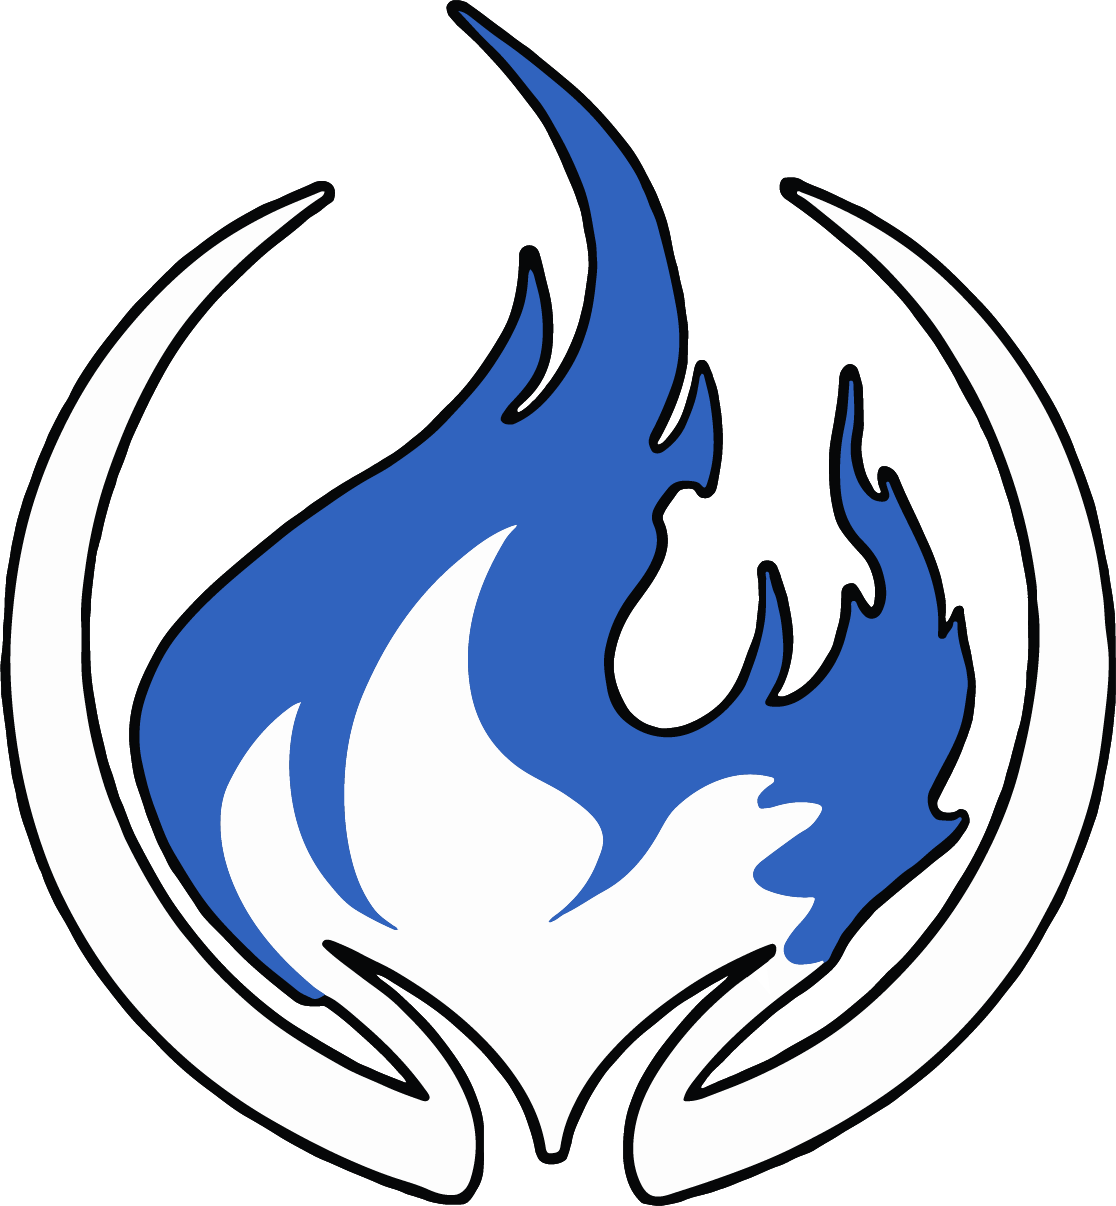
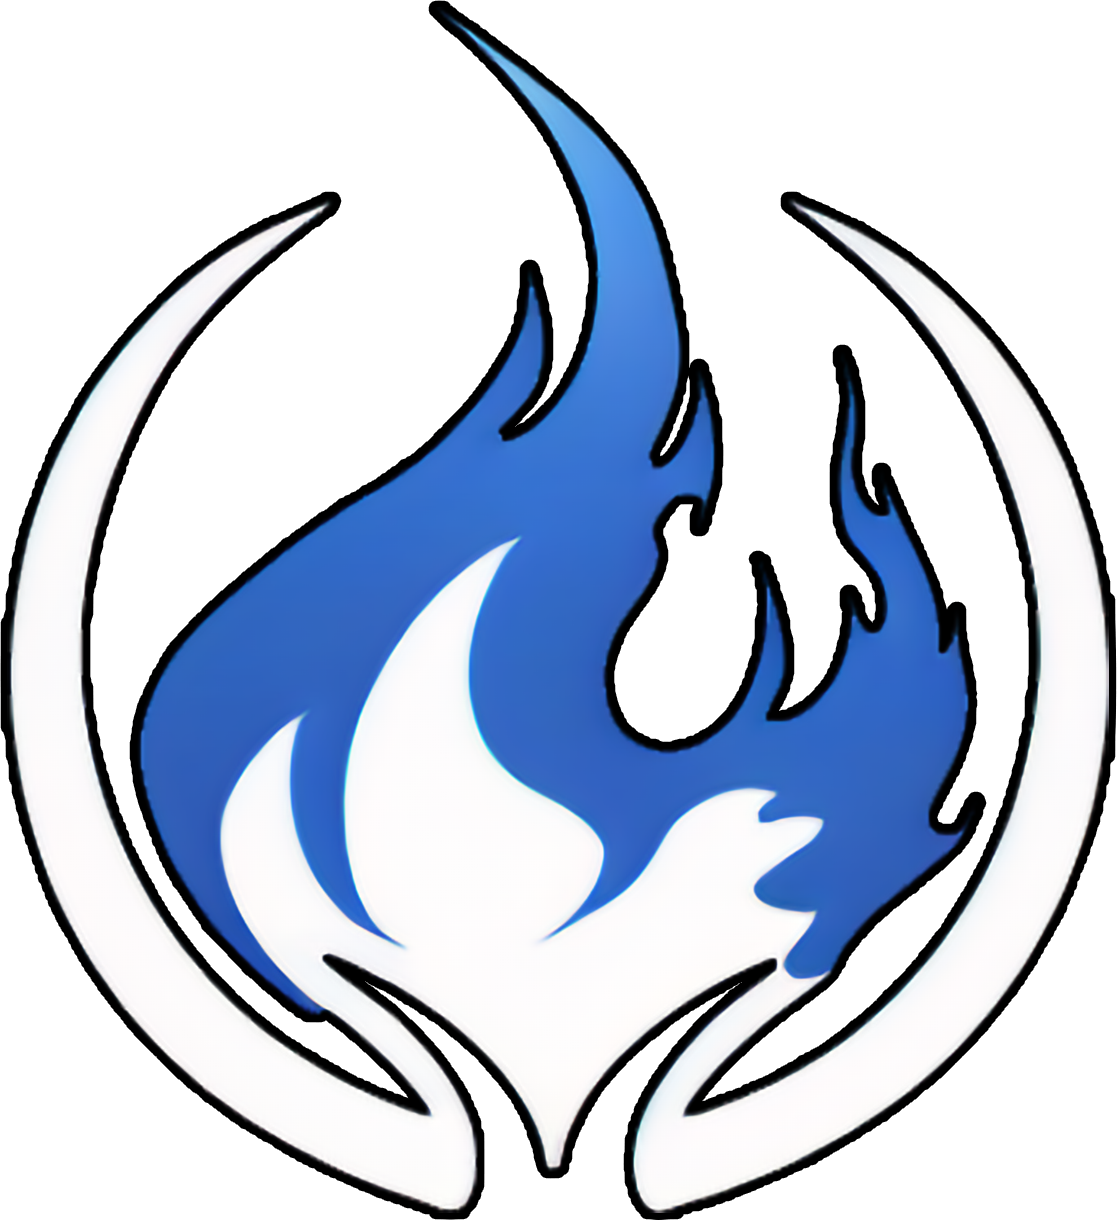
build: 패키지 설정 정리 packages package.json

diff --git a/packages/create-frontron/template-next-ts/app/globals.css b/packages/create-frontron/template-next-ts/app/globals.css
@@ -1,71 +1,64 @@
 @tailwind base;
 @tailwind components;
 @tailwind utilities;
- 
+
 @layer base {
   :root {
     --background: 0 0% 100%;
     --foreground: 222.2 84% 4.9%;
-
     --card: 0 0% 100%;
     --card-foreground: 222.2 84% 4.9%;
- 
     --popover: 0 0% 100%;
     --popover-foreground: 222.2 84% 4.9%;
- 
     --primary: 222.2 47.4% 11.2%;
     --primary-foreground: 210 40% 98%;
- 
     --secondary: 210 40% 96.1%;
     --secondary-foreground: 222.2 47.4% 11.2%;
- 
     --muted: 210 40% 96.1%;
     --muted-foreground: 215.4 16.3% 46.9%;
- 
     --accent: 210 40% 96.1%;
     --accent-foreground: 222.2 47.4% 11.2%;
- 
     --destructive: 0 84.2% 60.2%;
     --destructive-foreground: 210 40% 98%;
-
     --border: 214.3 31.8% 91.4%;
     --input: 214.3 31.8% 91.4%;
     --ring: 222.2 84% 4.9%;
- 
     --radius: 0.5rem;
+    --chart-1: 12 76% 61%;
+    --chart-2: 173 58% 39%;
+    --chart-3: 197 37% 24%;
+    --chart-4: 43 74% 66%;
+    --chart-5: 27 87% 67%;
   }
- 
+
   .dark {
     --background: 222.2 84% 4.9%;
     --foreground: 210 40% 98%;
- 
     --card: 222.2 84% 4.9%;
     --card-foreground: 210 40% 98%;
- 
     --popover: 222.2 84% 4.9%;
     --popover-foreground: 210 40% 98%;
- 
     --primary: 210 40% 98%;
     --primary-foreground: 222.2 47.4% 11.2%;
- 
     --secondary: 217.2 32.6% 17.5%;
     --secondary-foreground: 210 40% 98%;
- 
     --muted: 217.2 32.6% 17.5%;
     --muted-foreground: 215 20.2% 65.1%;
- 
     --accent: 217.2 32.6% 17.5%;
     --accent-foreground: 210 40% 98%;
- 
     --destructive: 0 62.8% 30.6%;
     --destructive-foreground: 210 40% 98%;
- 
     --border: 217.2 32.6% 17.5%;
     --input: 217.2 32.6% 17.5%;
     --ring: 212.7 26.8% 83.9%;
+    --chart-1: 220 70% 50%;
+    --chart-2: 160 60% 45%;
+    --chart-3: 30 80% 55%;
+    --chart-4: 280 65% 60%;
+    --chart-5: 340 75% 55%;
   }
 }
- 
+
 @layer base {
   * {
     @apply border-border;

diff --git a/packages/create-frontron/template-next/app/globals.css b/packages/create-frontron/template-next/app/globals.css
@@ -6,63 +6,56 @@
   :root {
     --background: 0 0% 100%;
     --foreground: 222.2 84% 4.9%;
-
     --card: 0 0% 100%;
     --card-foreground: 222.2 84% 4.9%;
-
     --popover: 0 0% 100%;
     --popover-foreground: 222.2 84% 4.9%;
-
     --primary: 222.2 47.4% 11.2%;
     --primary-foreground: 210 40% 98%;
-
     --secondary: 210 40% 96.1%;
     --secondary-foreground: 222.2 47.4% 11.2%;
-
     --muted: 210 40% 96.1%;
     --muted-foreground: 215.4 16.3% 46.9%;
-
     --accent: 210 40% 96.1%;
     --accent-foreground: 222.2 47.4% 11.2%;
-
     --destructive: 0 84.2% 60.2%;
     --destructive-foreground: 210 40% 98%;
-
     --border: 214.3 31.8% 91.4%;
     --input: 214.3 31.8% 91.4%;
     --ring: 222.2 84% 4.9%;
-
     --radius: 0.5rem;
+    --chart-1: 12 76% 61%;
+    --chart-2: 173 58% 39%;
+    --chart-3: 197 37% 24%;
+    --chart-4: 43 74% 66%;
+    --chart-5: 27 87% 67%;
   }
 
   .dark {
     --background: 222.2 84% 4.9%;
     --foreground: 210 40% 98%;
-
     --card: 222.2 84% 4.9%;
     --card-foreground: 210 40% 98%;
-
     --popover: 222.2 84% 4.9%;
     --popover-foreground: 210 40% 98%;
-
     --primary: 210 40% 98%;
     --primary-foreground: 222.2 47.4% 11.2%;
-
     --secondary: 217.2 32.6% 17.5%;
     --secondary-foreground: 210 40% 98%;
-
     --muted: 217.2 32.6% 17.5%;
     --muted-foreground: 215 20.2% 65.1%;
-
     --accent: 217.2 32.6% 17.5%;
     --accent-foreground: 210 40% 98%;
-
     --destructive: 0 62.8% 30.6%;
     --destructive-foreground: 210 40% 98%;
-
     --border: 217.2 32.6% 17.5%;
     --input: 217.2 32.6% 17.5%;
     --ring: 212.7 26.8% 83.9%;
+    --chart-1: 220 70% 50%;
+    --chart-2: 160 60% 45%;
+    --chart-3: 30 80% 55%;
+    --chart-4: 280 65% 60%;
+    --chart-5: 340 75% 55%;
   }
 }
 

diff --git a/packages/create-frontron/template-next-ts/app/page.tsx b/packages/create-frontron/template-next-ts/app/page.tsx
@@ -38,8 +38,8 @@ export default function Home() {
           priority
         />
         &nbsp;&nbsp;&nbsp;&nbsp;
-        <svg xmlns="http://www.w3.org/2000/svg" width="24" height="24" viewBox="0 0 24 24" fill="none" stroke="currentColor" stroke-width="2" stroke-linecap="round" stroke-linejoin="round"><path d="M5 12h14"/><path d="M12 5v14"/></svg>
-        &nbsp;&nbsp;&nbsp;&nbsp;&nbsp;
+        +
+        &nbsp;&nbsp;&nbsp;&nbsp;
         <Image
           className="relative dark:drop-shadow-[0_0_0.3rem_#ffffff70] dark:invert"
           src="/next.svg"

diff --git a/packages/create-frontron/template-next-ts/tailwind.config.ts b/packages/create-frontron/template-next-ts/tailwind.config.ts
@@ -3,8 +3,10 @@ import type { Config } from "tailwindcss"
 const config = {
   darkMode: ["class"],
   content: [
-    './app/**/*.{ts,tsx}',
+    './pages/**/*.{ts,tsx}',
     './components/**/*.{ts,tsx}',
+    './app/**/*.{ts,tsx}',
+    './src/**/*.{ts,tsx}',
 	],
   prefix: "",
   theme: {

diff --git a/packages/create-frontron/template-next/app/page.js b/packages/create-frontron/template-next/app/page.js
@@ -38,8 +38,8 @@ export default function Home() {
           priority
         />
         &nbsp;&nbsp;&nbsp;&nbsp;
-        <svg xmlns="http://www.w3.org/2000/svg" width="24" height="24" viewBox="0 0 24 24" fill="none" stroke="currentColor" stroke-width="2" stroke-linecap="round" stroke-linejoin="round"><path d="M5 12h14"/><path d="M12 5v14"/></svg>
-        &nbsp;&nbsp;&nbsp;&nbsp;&nbsp;
+        +
+        &nbsp;&nbsp;&nbsp;&nbsp;
         <Image
           className="relative dark:drop-shadow-[0_0_0.3rem_#ffffff70] dark:invert"
           src="/next.svg"

diff --git a/packages/create-frontron/template-next-ts/components/ui/command.tsx b/packages/create-frontron/template-next-ts/components/ui/command.tsx
@@ -117,7 +117,7 @@ const CommandItem = React.forwardRef<
   <CommandPrimitive.Item
     ref={ref}
     className={cn(
-      "relative flex cursor-default select-none items-center rounded-sm px-2 py-1.5 text-sm outline-none aria-selected:bg-accent aria-selected:text-accent-foreground data-[disabled]:pointer-events-none data-[disabled]:opacity-50",
+      "relative flex cursor-default select-none items-center rounded-sm px-2 py-1.5 text-sm outline-none data-[disabled=true]:pointer-events-none data-[selected='true']:bg-accent data-[selected=true]:text-accent-foreground data-[disabled=true]:opacity-50",
       className
     )}
     {...props}

diff --git a/packages/create-frontron/template-next-ts/components/ui/form.tsx b/packages/create-frontron/template-next-ts/components/ui/form.tsx
@@ -1,3 +1,5 @@
+"use client"
+
 import * as React from "react"
 import * as LabelPrimitive from "@radix-ui/react-label"
 import { Slot } from "@radix-ui/react-slot"

diff --git a/packages/create-frontron/template-next-ts/components/ui/toggle-group.tsx b/packages/create-frontron/template-next-ts/components/ui/toggle-group.tsx
@@ -2,7 +2,7 @@
 
 import * as React from "react"
 import * as ToggleGroupPrimitive from "@radix-ui/react-toggle-group"
-import { VariantProps } from "class-variance-authority"
+import { type VariantProps } from "class-variance-authority"
 
 import { cn } from "@/lib/utils"
 import { toggleVariants } from "@/components/ui/toggle"

diff --git a/packages/create-frontron/template-next/components/ui/command.jsx b/packages/create-frontron/template-next/components/ui/command.jsx
@@ -84,7 +84,7 @@ const CommandItem = React.forwardRef(({ className, ...props }, ref) => (
   <CommandPrimitive.Item
     ref={ref}
     className={cn(
-      "relative flex cursor-default select-none items-center rounded-sm px-2 py-1.5 text-sm outline-none aria-selected:bg-accent aria-selected:text-accent-foreground data-[disabled]:pointer-events-none data-[disabled]:opacity-50",
+      "relative flex cursor-default select-none items-center rounded-sm px-2 py-1.5 text-sm outline-none data-[disabled=true]:pointer-events-none data-[selected='true']:bg-accent data-[selected=true]:text-accent-foreground data-[disabled=true]:opacity-50",
       className
     )}
     {...props} />

diff --git a/packages/create-frontron/template-next/components/ui/form.jsx b/packages/create-frontron/template-next/components/ui/form.jsx
@@ -1,3 +1,4 @@
+"use client";
 import * as React from "react"
 import { Slot } from "@radix-ui/react-slot"
 import { Controller, FormProvider, useFormContext } from "react-hook-form";